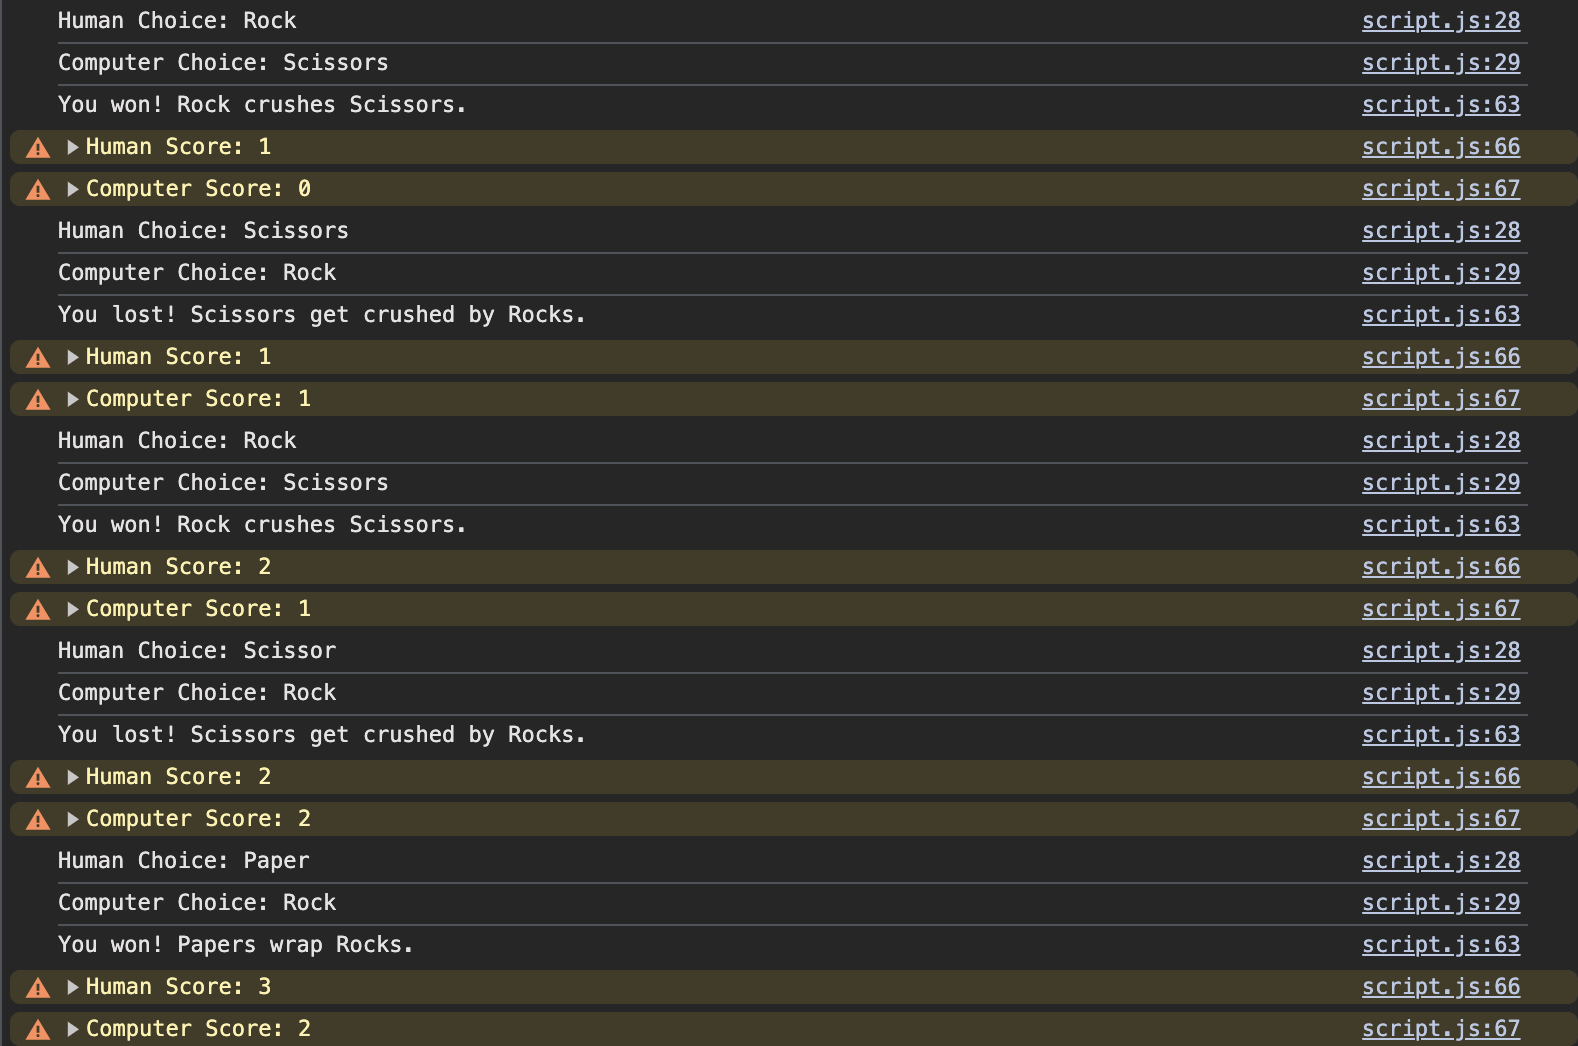
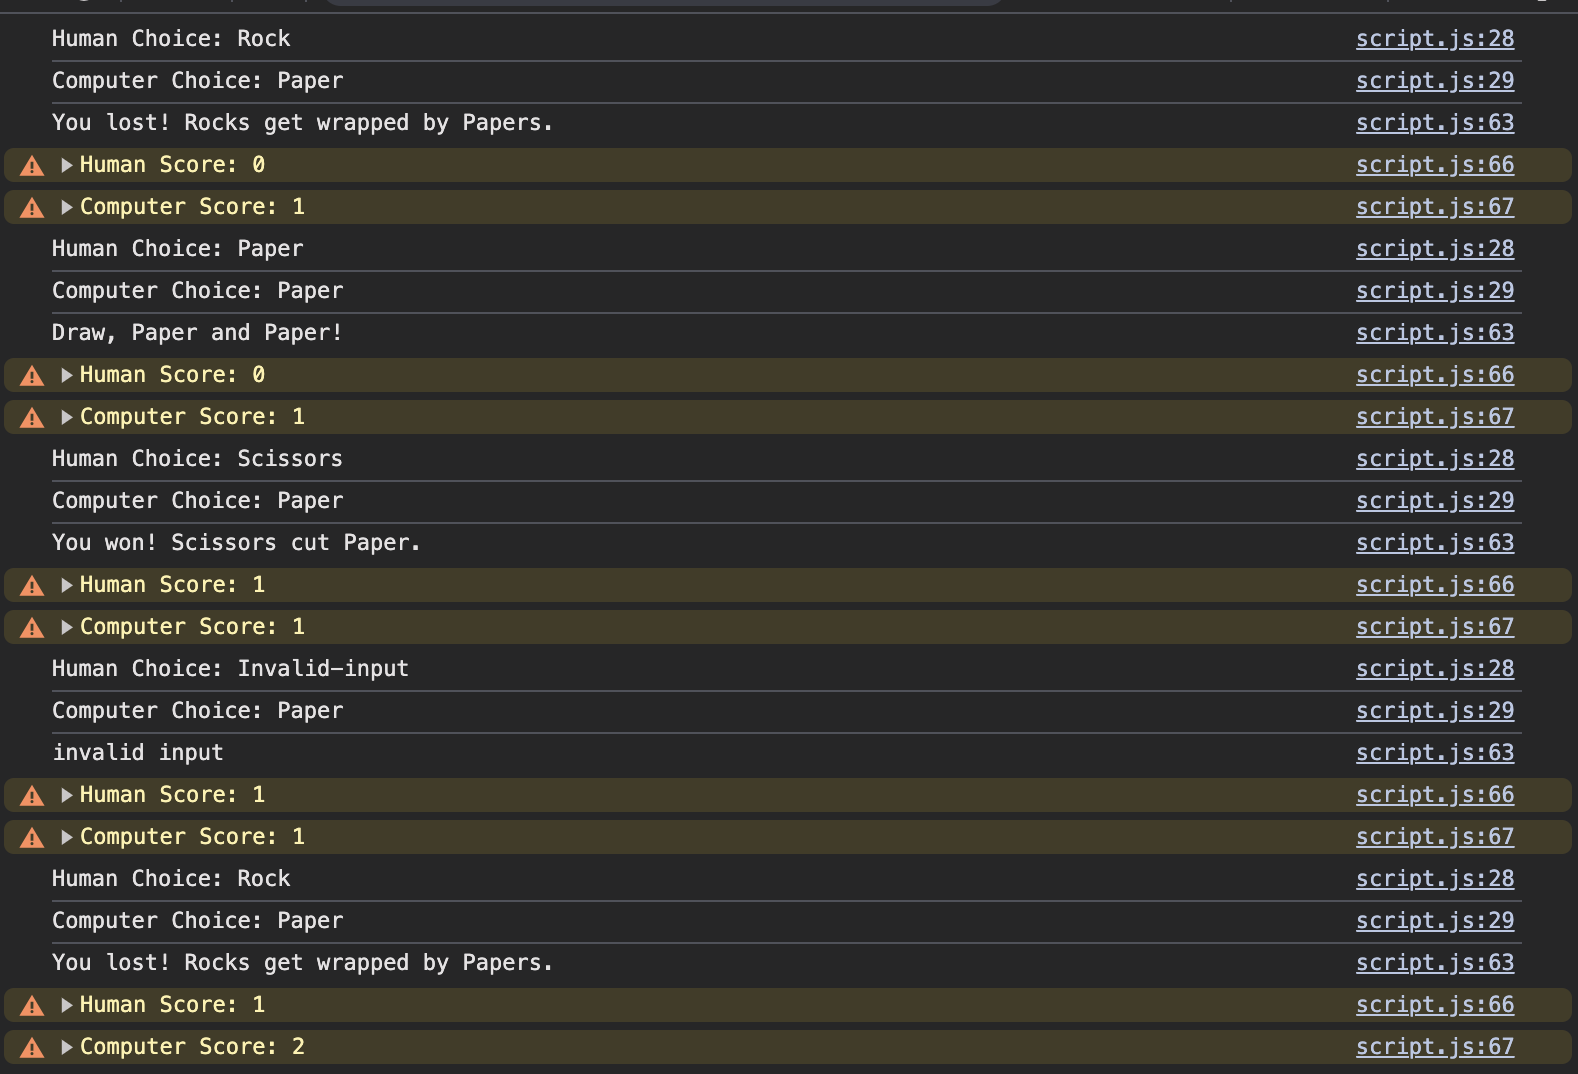
final clean ups

Changed region(s): [[0.0, 0.0, 1.0, 1.0]]

diff --git a/03-JavaScript-projects/Rock-Paper-Scissors/script.js b/03-JavaScript-projects/Rock-Paper-Scissors/script.js
@@ -44,13 +44,13 @@ function getComputerChoice() {
       } else if (humanChoice === "Paper" && computerChoice === "Scissors") {
         incComputerScore();
         return "You lost! Paper gets cut by Scissors.";
-      } else if (humanChoice === "Scissors" || "Scissor" && computerChoice === "Rock") {
+      } else if (humanChoice === "Scissors" && computerChoice === "Rock") {
         incComputerScore();
         return "You lost! Scissors get crushed by Rocks.";
-      } else if (humanChoice === "Scissors" || "Scissor" && computerChoice === "Paper") {
+      } else if (humanChoice === "Scissors" && computerChoice === "Paper") {
         incHumanScore();
         return "You won! Scissors cut Paper.";
-      } else if (humanChoice === "Scissors" || "Scissor" && computerChoice === "Scissors") {
+      } else if (humanChoice === "Scissors" && computerChoice === "Scissors") {
         return "Draw, Scissors and Scissors.";
       } else {
         return "invalid input";
@@ -73,7 +73,6 @@ function getComputerChoice() {
       playGame();    
       round++;             
       setTimeout(gameLoop, 3000); // 3 Sekunden warten, bevor die nächste Runde gestartet wird
-    }
-  }
+    }}
   
   gameLoop();
